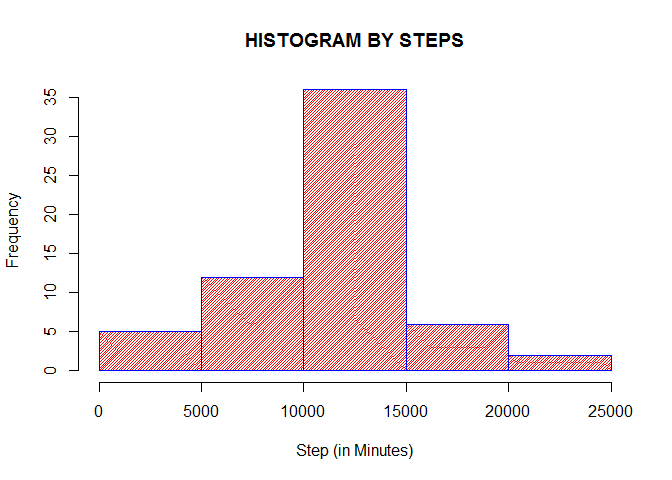
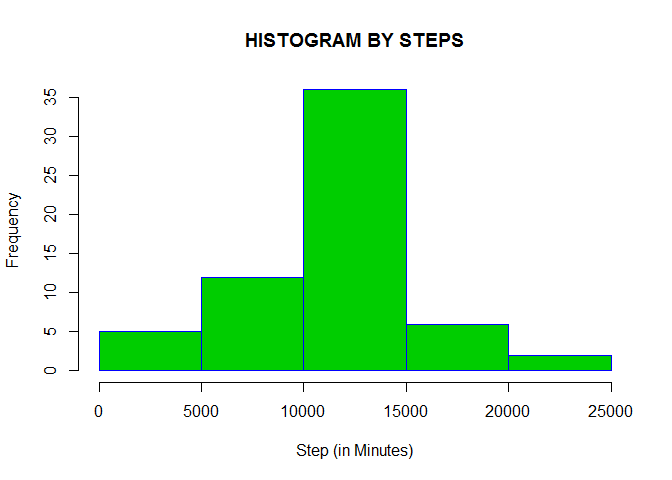
2nd Commit

Changed region(s): [[0.125, 0.1875, 0.9062, 0.7812]]

diff --git a/PA1_template.html b/PA1_template.html
@@ -177,8 +177,8 @@ $(document).ready(function () {
 <p><strong>1. Calculate the total number of steps taken per day:</strong></p>
 <div class="sourceCode"><pre class="sourceCode r"><code class="sourceCode r">ds &lt;-<span class="st"> </span><span class="kw">with</span>(data_activity, <span class="kw">aggregate</span>(steps ~<span class="st"> </span>date, <span class="dt">data=</span>data_activity, sum))</code></pre></div>
 <p><strong>2. Plot a Histogram of the total number of steps taken each day:</strong></p>
-<div class="sourceCode"><pre class="sourceCode r"><code class="sourceCode r"><span class="kw">hist</span>(ds$steps, <span class="dt">main =</span><span class="st">&quot;HISTOGRAM OF STEPS&quot;</span>, <span class="dt">xlab =</span><span class="st">&quot;Steps(in Days)&quot;</span>, <span class="dt">col =</span> <span class="dv">10</span>, <span class="dt">border =</span> <span class="dv">4</span>, <span class="dt">density =</span> <span class="dv">50</span>)</code></pre></div>
[1 lines of base64/hex data omitted]
+<div class="sourceCode"><pre class="sourceCode r"><code class="sourceCode r"><span class="kw">hist</span>(ds$steps, <span class="dt">main =</span><span class="st">&quot;HISTOGRAM OF STEPS&quot;</span>, <span class="dt">xlab =</span><span class="st">&quot;Steps(in Days)&quot;</span>, <span class="dt">col =</span> <span class="dv">2</span>, <span class="dt">border =</span> <span class="dv">4</span> )</code></pre></div>
[1 lines of base64/hex data omitted]
 <p><strong>3. Calculate and Report the Mean and Median of the Total Number of Steps Taken Per Day:</strong></p>
 <div class="sourceCode"><pre class="sourceCode r"><code class="sourceCode r"><span class="kw">c</span>(<span class="dt">mean =</span> <span class="kw">mean</span>(ds$steps), <span class="dt">median =</span> <span class="kw">median</span>(ds$steps))</code></pre></div>
 <pre><code>##     mean   median 
@@ -250,14 +250,14 @@ data_activity_wo_na &lt;-<span class="st"> </span><span class="kw">rbind</span>(
 ## 6 2.0943396 2012-10-01       25</code></pre>
 <p><strong>4i. Make a histogram of the total number of steps taken each day.</strong></p>
 <div class="sourceCode"><pre class="sourceCode r"><code class="sourceCode r">ds &lt;-<span class="st"> </span><span class="kw">aggregate</span>(steps ~<span class="st"> </span>date, <span class="dt">data=</span>data_activity_wo_na, sum)
-<span class="kw">hist</span>(ds$steps, <span class="dt">main=</span><span class="st">&quot;HISTOGRAM BY STEPS&quot;</span>, <span class="dt">xlab=</span><span class="st">&quot;Step (in Minutes)&quot;</span>, <span class="dt">col =</span> <span class="dv">10</span>, <span class="dt">border =</span> <span class="dv">4</span>, <span class="dt">density =</span> <span class="dv">50</span>)</code></pre></div>
[1 lines of base64/hex data omitted]
+<span class="kw">hist</span>(ds$steps, <span class="dt">main=</span><span class="st">&quot;HISTOGRAM BY STEPS&quot;</span>, <span class="dt">xlab=</span><span class="st">&quot;Step (in Minutes)&quot;</span>, <span class="dt">col =</span> <span class="dv">3</span>, <span class="dt">border =</span> <span class="dv">4</span>)</code></pre></div>
[1 lines of base64/hex data omitted]
 <p>Calculate and report the mean and median total number of steps taken per day.</p>
 <div class="sourceCode"><pre class="sourceCode r"><code class="sourceCode r"><span class="kw">c</span>(<span class="dt">mean=</span><span class="kw">mean</span>(ds$steps), <span class="dt">median=</span><span class="kw">median</span>(ds$steps))</code></pre></div>
 <pre><code>##     mean   median 
 ## 10766.19 10766.19</code></pre>
 <p><strong>4ii. Do these values differ from the estimates from the first part of the assignment? What is the impact of imputing missing data on the estimates of the total daily number of steps?</strong></p>
-<pre><code>Yes, the values is differ but it is seem very low and it will not give a big impact on the data analysis.</code></pre>
+<pre><code>YES, the values does differ however, it is very minor, hence therefore, and it does not have any big impact to the analysis.</code></pre>
 </div>
 <div id="e.-is-there-any-differences-in-activity-patterns-between-weekdays-and-weekends" class="section level2">
 <h2>E. Is There Any Differences In Activity Patterns Between Weekdays and Weekends?</h2>

diff --git a/PA1_template.md b/PA1_template.md
@@ -46,7 +46,7 @@ ds <- with(data_activity, aggregate(steps ~ date, data=data_activity, sum))
 
 
 ```r
-hist(ds$steps, main ="HISTOGRAM OF STEPS", xlab ="Steps(in Days)", col = 10, border = 4, density = 50)
+hist(ds$steps, main ="HISTOGRAM OF STEPS", xlab ="Steps(in Days)", col = 2, border = 4 )
 ```
 
 ![](PA1_template_files/figure-html/unnamed-chunk-3-1.png)<!-- -->
@@ -178,7 +178,7 @@ head(data_activity_wo_na)
 
 ```r
 ds <- aggregate(steps ~ date, data=data_activity_wo_na, sum)
-hist(ds$steps, main="HISTOGRAM BY STEPS", xlab="Step (in Minutes)", col = 10, border = 4, density = 50)
+hist(ds$steps, main="HISTOGRAM BY STEPS", xlab="Step (in Minutes)", col = 3, border = 4)
 ```
 
 ![](PA1_template_files/figure-html/unnamed-chunk-10-1.png)<!-- -->
@@ -197,7 +197,7 @@ c(mean=mean(ds$steps), median=median(ds$steps))
 **4ii. Do these values differ from the estimates from the first part of the assignment? What is the impact of imputing missing data on the estimates of the total daily number of steps?** 
 
 ```{}
-Yes, the values is differ but it is seem very low and it will not give a big impact on the data analysis.
+YES, the values does differ however, it is very minor, hence therefore, and it does not have any big impact to the analysis.
 ```
 
 ## E. Is There Any Differences In Activity Patterns Between Weekdays and Weekends?
